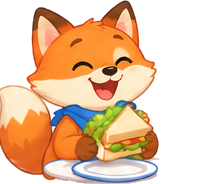
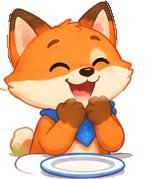
feat(picnic): friends beam when their shares land, with the sheet's food painted out
Each friend's eating face is rebuilt by the cutter: the eating face's big
smile, placed where it lines up best on the happy picture, whose paws are
empty. No cookie, strawberry or sandwich that was never shared.

diff --git a/games/picnic/src/view/art.ts b/games/picnic/src/view/art.ts
@@ -92,13 +92,11 @@ export function drawTable(ctx: CanvasRenderingContext2D, sprites: Sprites): void
 
 /**
  * A friend sitting behind the table: drawn before it, so it hides them below
- * the shoulders. The sheet's eating faces hold food of their own — a cookie,
- * a strawberry, a sandwich — so a friend eating wears their happy face
- * instead, their own share on the plate in front of them.
+ * the shoulders. Their eating face is their biggest smile, with nothing in
+ * their paws: the cutter rebuilds it without the food the sheet painted there.
  */
 export function drawFriend(ctx: CanvasRenderingContext2D, sprites: Sprites, friend: FriendId, mood: Mood, seat: Point, bob = 0): void {
-  const face: Mood = mood === 'eating' ? 'happy' : mood;
-  drawStanding(ctx, sprites, `${friend}-${face}`, { x: seat.x, y: BODY_Y - bob }, FRIEND.scale, { fallback: '#b07a4a' });
+  drawStanding(ctx, sprites, `${friend}-${mood}`, { x: seat.x, y: BODY_Y - bob }, FRIEND.scale, { fallback: '#b07a4a' });
 }
 
 

diff --git a/scripts/cut-picnic.py b/scripts/cut-picnic.py
@@ -4,7 +4,8 @@ The sheet (1536x1024) holds a picnic table, a basket, chairs, four friends in
 four moods each, Biscuit the dog, the treats, pizza and cake whole and in
 pieces, the dial, the Share button, a fence and a patch of grass, each on
 white. Every piece is cut by flooding the white in from the edge of its box,
-so white painted inside an outline (the plates, the bunny) stays. The table's
+so white painted inside an outline (the plates, the bunny) stays. Each friend's
+eating face is rebuilt without the food painted in its paws (see `beaming`). The table's
 own painted plates are painted out first, from the cloth beside them, because
 each friend brings their own; the dial's painted "3" is wiped so the game can
 write its own number.
@@ -260,6 +261,71 @@ def largest_part(sprite):
 
 MOODS = ('eating', 'happy', 'puzzled', 'grumpy')
 
+# The sheet's eating faces hold food of their own (cookies, a strawberry, a
+# sandwich), which would be the wrong food whatever was shared. So each
+# friend's eating picture is made from their happy picture, whose paws are
+# empty, wearing the eating face's big smile: the head, down to its neck (a
+# share of its height), placed where it lines up best.
+NECK = {'teddy': 0.64, 'bunny': 0.68, 'fox': 0.56, 'raccoon': 0.5}
+NECK_FEATHER = 14
+
+
+def beaming(board, friend):
+    """The happy picture with the eating face's big smile, and nothing in its paws."""
+    eat = np.asarray(cut(board, SPRITES[f'{friend}-eating'])).astype(float)
+    body = np.asarray(cut(board, SPRITES[f'{friend}-happy'])).astype(float)
+    rows = int(eat.shape[0] * NECK[friend])
+    head = eat[:rows]
+    solid = head[..., 3] > 128
+    ys, xs = np.nonzero(solid)
+    # Where the head sits best on the body: most of its outline over the body,
+    # least of the body's old head left outside it.
+    best = None
+    for dy in range(-30, 31):
+        for dx in range(-40, 41):
+            ty, tx = ys + dy, xs + dx
+            inside = (ty >= 0) & (ty < body.shape[0]) & (tx >= 0) & (tx < body.shape[1])
+            if inside.mean() < 0.9:
+                continue
+            hit = (body[ty[inside], tx[inside], 3] > 128).mean()
+            covered = np.zeros(body.shape[:2], bool)
+            covered[ty[inside], tx[inside]] = True
+            top = max(0, rows + dy)
+            spill = ((body[:top, :, 3] > 128) & ~covered[:top]).sum() / max(1, solid.sum())
+            if best is None or hit - spill > best[0]:
+                best = (hit - spill, dx, dy)
+    _, dx, dy = best
+    result = body.copy()
+    # The old head is cleared wherever the new one does not cover it, above
+    # where the new one fades into the body, so no old ear or cheek peeks out.
+    placed = np.zeros(body.shape[:2], np.uint8)
+    ty, tx = ys + dy, xs + dx
+    inside = (ty >= 0) & (ty < body.shape[0]) & (tx >= 0) & (tx < body.shape[1])
+    placed[ty[inside], tx[inside]] = 255
+    placed = np.asarray(Image.fromarray(placed).filter(ImageFilter.MaxFilter(3))) > 0
+    clear = np.zeros(body.shape[:2], bool)
+    clear[:max(0, rows + dy - NECK_FEATHER - 2)] = True
+    result[clear & ~placed, 3] = 0
+    fade = np.ones(rows)
+    fade[-NECK_FEATHER:] = np.linspace(1, 0, NECK_FEATHER)
+    for y in range(rows):
+        to_y = y + dy
+        if not 0 <= to_y < body.shape[0]:
+            continue
+        for x in range(head.shape[1]):
+            to_x = x + dx
+            if not 0 <= to_x < body.shape[1]:
+                continue
+            a = head[y, x, 3] / 255 * fade[y]
+            # Where the head fades into the body, only over the body: never a
+            # faint fringe left hanging beside it.
+            if a <= 0 or (fade[y] < 1 and body[to_y, to_x, 3] < 128):
+                continue
+            result[to_y, to_x, :3] = head[y, x, :3] * a + result[to_y, to_x, :3] * (1 - a)
+            result[to_y, to_x, 3] = max(result[to_y, to_x, 3], head[y, x, 3] * fade[y])
+    out = Image.fromarray(result.astype(np.uint8), 'RGBA')
+    return out.crop(out.getbbox())
+
 
 def centre_on_plate(sprite):
     """
@@ -298,7 +364,8 @@ def main():
         raise SystemExit(f'expected a 1536x1024 sheet, got {sheet.size}: measure the boxes again')
     board = prepare(sheet)
     for name, box in SPRITES.items():
-        sprite = cut(board, box)
+        friend, _, mood = name.partition('-')
+        sprite = beaming(board, friend) if mood == 'eating' and friend in NECK else cut(board, box)
         if name in LARGEST_ONLY:
             sprite = largest_part(sprite)
         if '-' in name and name.split('-')[1] in MOODS:
